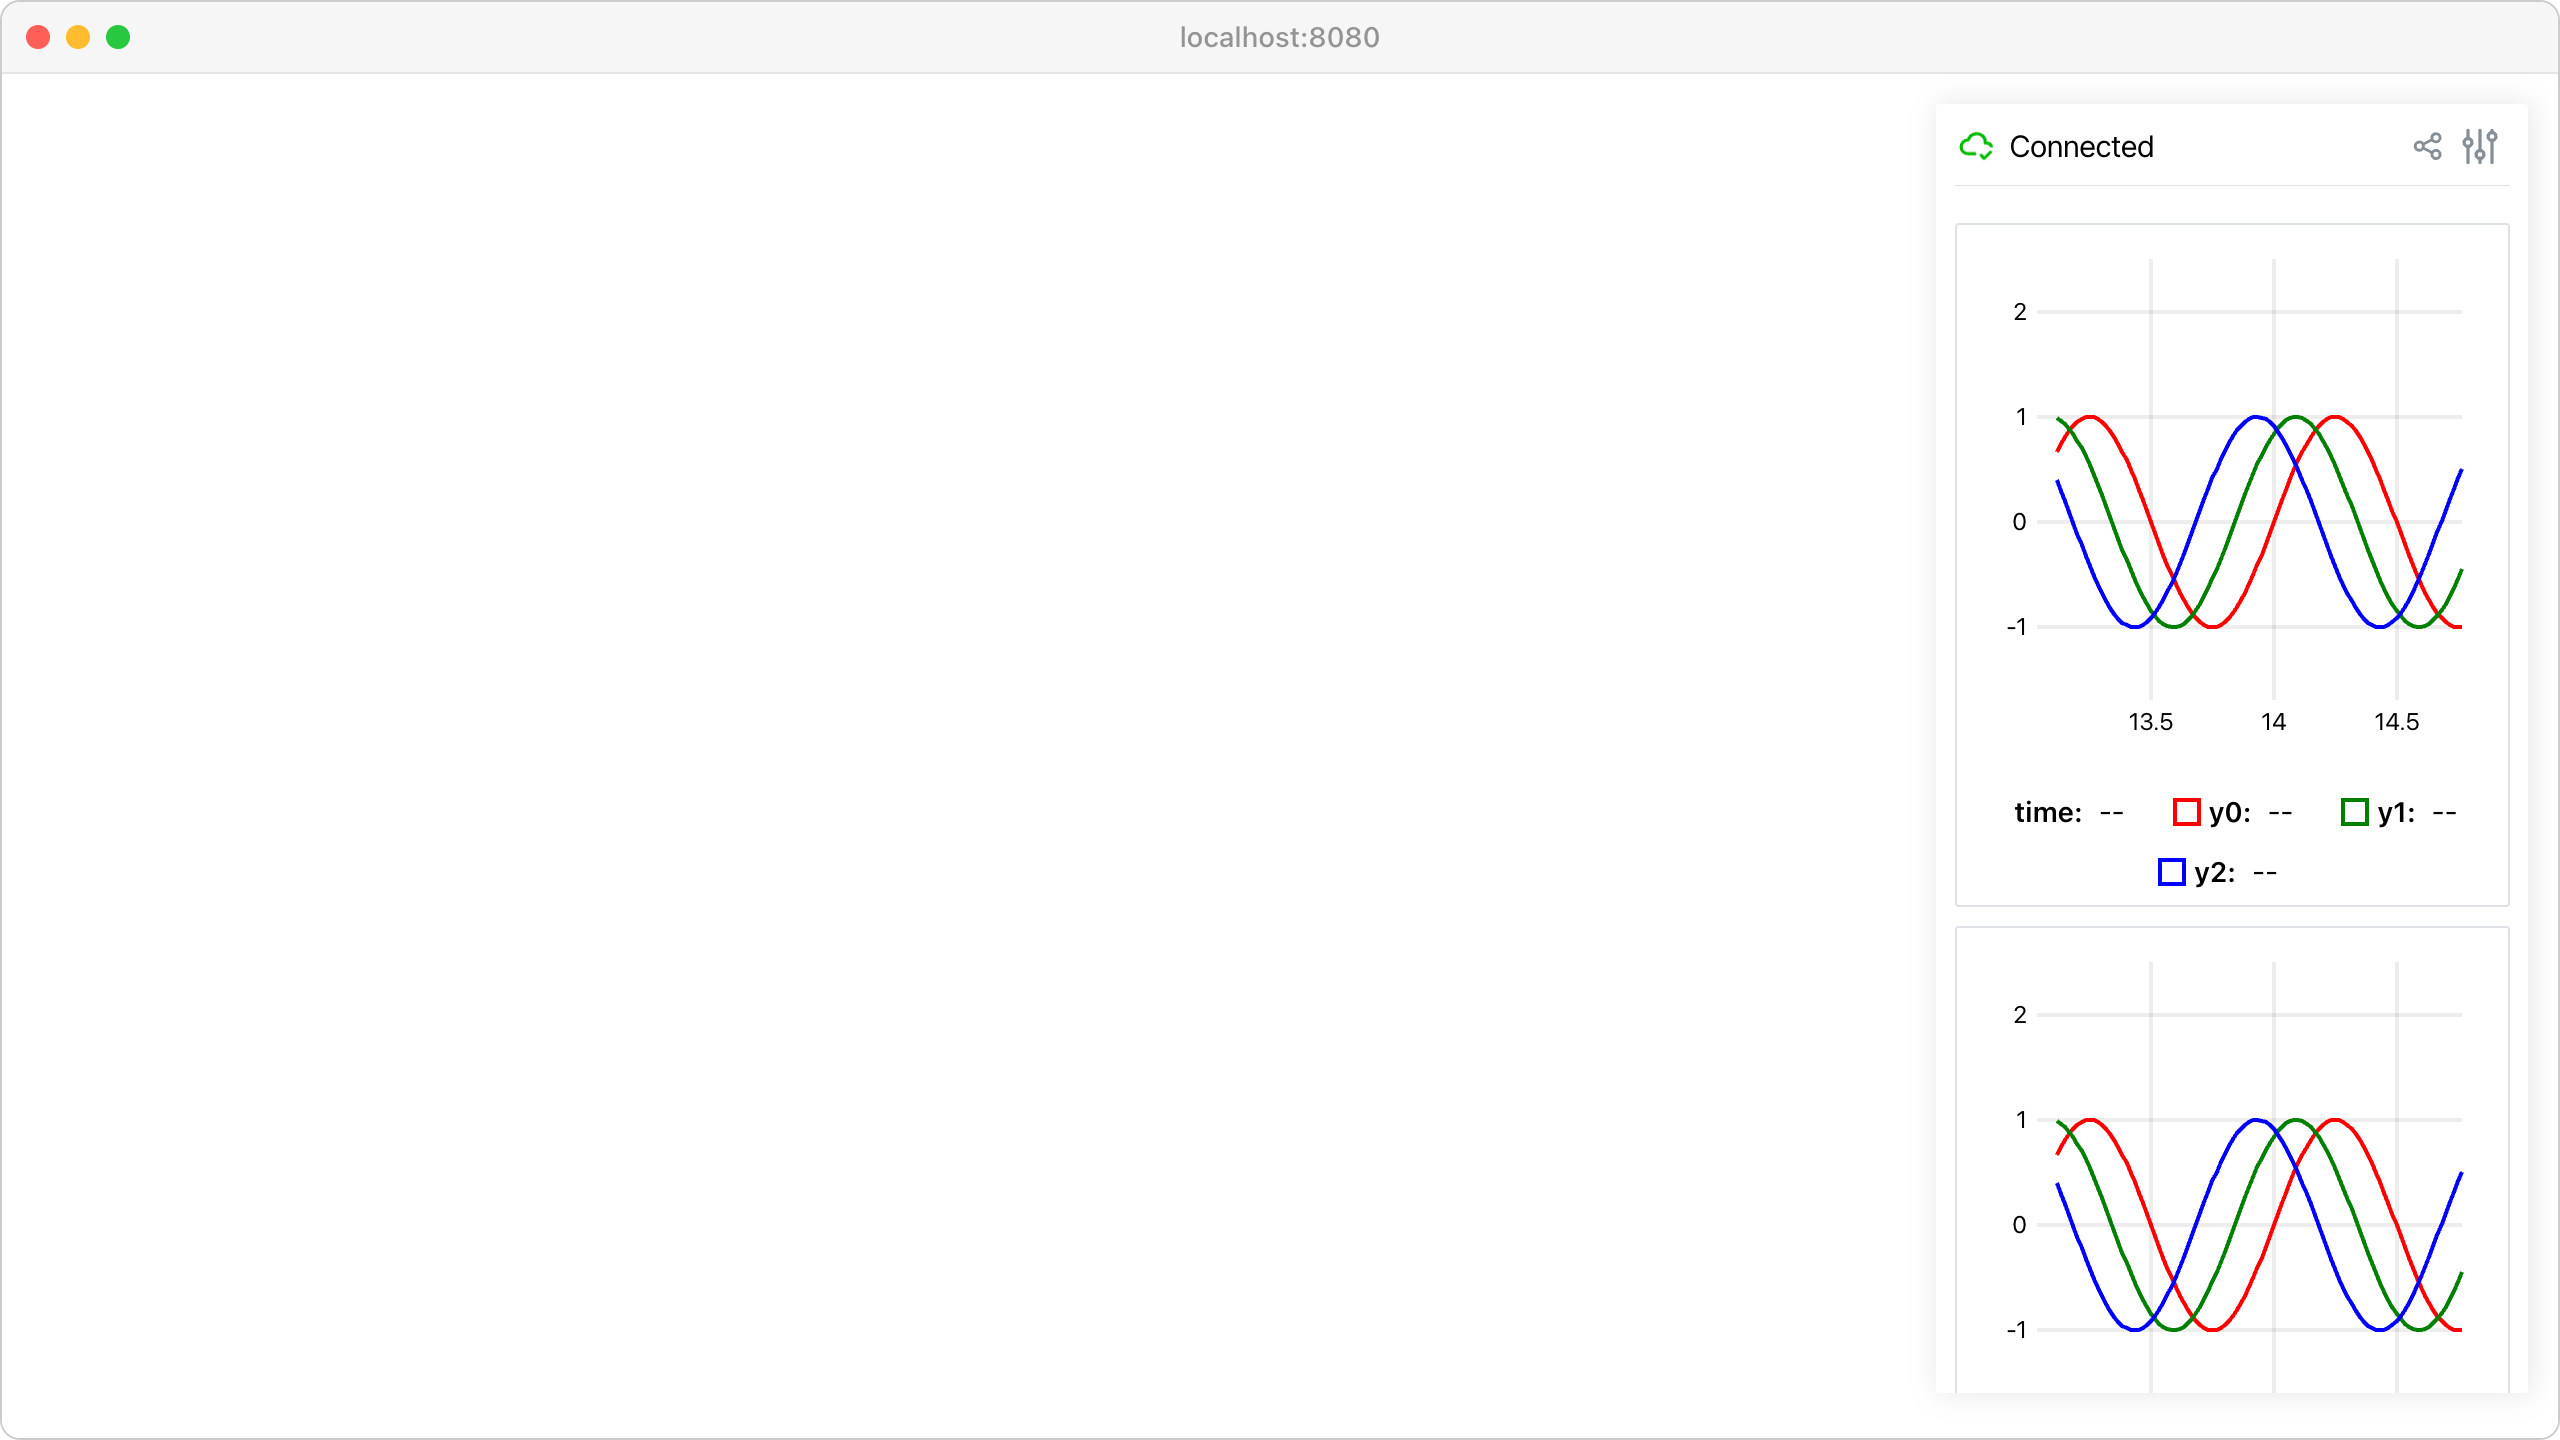
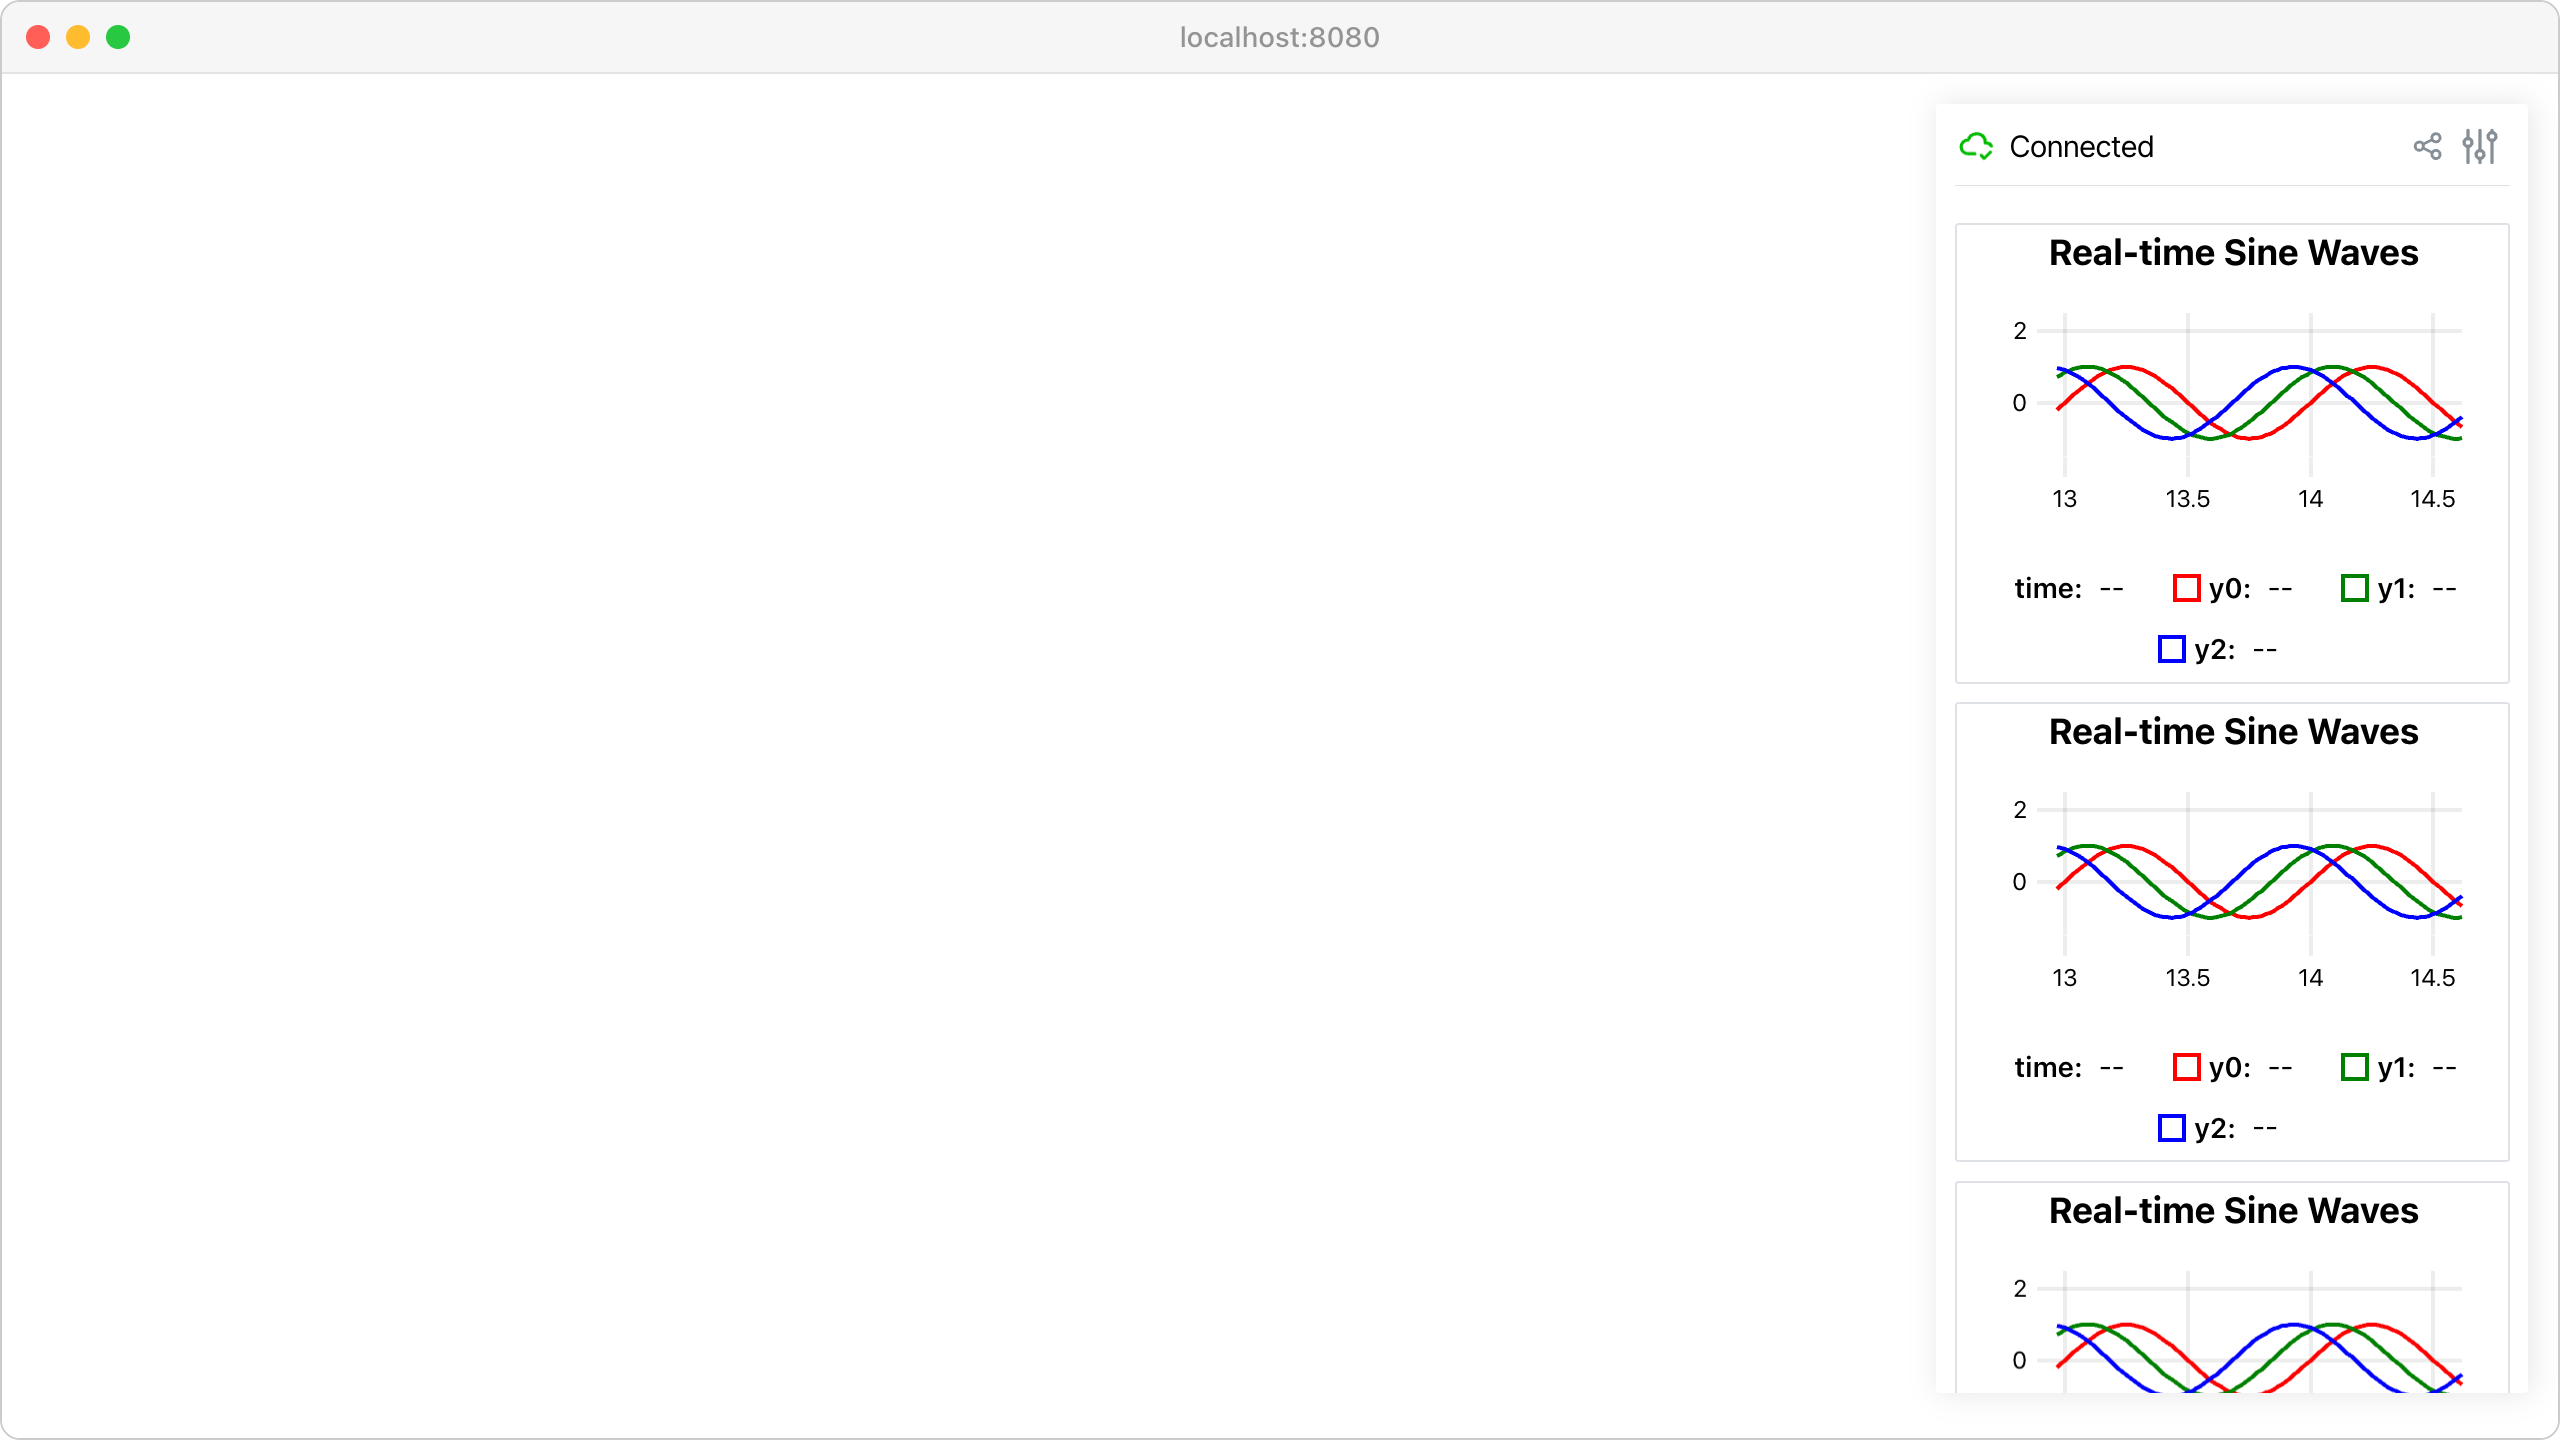
Improving styling for uPlot plots

diff --git a/src/viser/client/src/components/UplotComponent.tsx b/src/viser/client/src/components/UplotComponent.tsx
@@ -1,8 +1,17 @@
 import { useEffect, useMemo, useRef, useState } from "react";
 import UplotReact from "uplot-react";
 import "uplot/dist/uPlot.min.css";
+import "./UplotComponent.css";
 
-import { Modal, Box, Paper, Tooltip, ActionIcon } from "@mantine/core";
+import {
+  Modal,
+  Box,
+  Paper,
+  Tooltip,
+  ActionIcon,
+  useMantineTheme,
+  useMantineColorScheme,
+} from "@mantine/core";
 import { useDisclosure, useElementSize } from "@mantine/hooks";
 import { IconMaximize } from "@tabler/icons-react";
 import { GuiUplotMessage } from "../WebsocketMessages";
@@ -18,6 +27,8 @@ function PlotComponent({
 }) {
   const [isHovered, setIsHovered] = useState(false);
   const { ref: containerSizeRef, width: containerWidth } = useElementSize();
+  const theme = useMantineTheme();
+  const { colorScheme } = useMantineColorScheme();
 
   // Convert inputs to Float64Array once per update.
   const [data, xMin, xMax] = useMemo(() => {
@@ -43,6 +54,53 @@ function PlotComponent({
   // There are some `any` casts because the types here come through multiple
   // transpiler layers, which are imperfect: TS=>Python=>TS.
   const plotOptions = useMemo(() => {
+    // Get theme-aware default colors.
+    const textColor =
+      colorScheme === "dark" ? theme.colors.gray[5] : theme.colors.gray[7];
+    const gridColor =
+      colorScheme === "dark"
+        ? "rgba(255, 255, 255, 0.03)"
+        : theme.colors.gray[2];
+
+    // Process axes to add theme-aware defaults if not specified by user.
+    // If axes are not provided, create default axes with theme colors.
+    let processedAxes = props.axes as any;
+    if (processedAxes === undefined || processedAxes === null) {
+      // Create default axes if none provided.
+      processedAxes = [
+        { stroke: textColor, grid: { stroke: gridColor, show: true } }, // x-axis
+        { stroke: textColor, grid: { stroke: gridColor, show: true } }, // y-axis
+      ];
+    } else {
+      processedAxes = processedAxes.map((axis: any) => {
+        if (axis === undefined || axis === null) return axis;
+
+        // Only set defaults if user hasn't specified values.
+        const result = { ...axis };
+
+        // Set axis line color default.
+        if (result.stroke === undefined) {
+          result.stroke = textColor;
+        }
+
+        // Set grid color default.
+        if (result.grid === undefined) {
+          result.grid = { stroke: gridColor };
+        } else if (result.grid !== null && result.grid.stroke === undefined) {
+          result.grid = { ...result.grid, stroke: gridColor };
+        }
+
+        // Set tick color default.
+        if (result.ticks === undefined) {
+          result.ticks = { stroke: textColor };
+        } else if (result.ticks !== null && result.ticks.stroke === undefined) {
+          result.ticks = { ...result.ticks, stroke: textColor };
+        }
+
+        return result;
+      });
+    }
+
     return {
       width: containerWidth,
       height: (containerWidth / props.aspect) as any,
@@ -52,11 +110,26 @@ function PlotComponent({
       cursor: (props.cursor as any) || undefined,
       bands: props.bands || undefined,
       scales: props.scales || undefined,
-      axes: (props.axes as any) || undefined,
+      axes: processedAxes,
       legend: (props.legend as any) || undefined,
       focus: props.focus || undefined,
+      // Set tighter default padding [top, right, bottom, left].
+      padding: [0, 24, 0, 0] as [number, number, number, number],
     };
-  }, [containerWidth, props]);
+  }, [
+    containerWidth,
+    props.aspect,
+    props.title,
+    props.mode,
+    props.series,
+    props.cursor,
+    props.bands,
+    props.scales,
+    props.axes,
+    props.legend,
+    props.focus,
+    colorScheme,
+  ]);
 
   // Somewhat experimental: manual scale reset logic. When the plot data is
   // updated, uPlot's default behavior will either:
@@ -98,7 +171,7 @@ function PlotComponent({
   return (
     <Paper
       ref={containerSizeRef}
-      className={folderWrapper}
+      className={`${folderWrapper} uplot-container`}
       withBorder
       style={{ position: "relative" }}
       onMouseEnter={onExpand ? () => setIsHovered(true) : undefined}
@@ -106,6 +179,7 @@ function PlotComponent({
     >
       {plotOptions && (
         <UplotReact
+          key={colorScheme} // Force remount when theme changes.
           resetScales={false}
           onCreate={(chart) => {
             setPlotObj(chart);
@@ -128,7 +202,10 @@ function PlotComponent({
               position: "absolute",
               top: 8,
               right: 8,
-              backgroundColor: "rgba(255, 255, 255, 0.9)",
+              backgroundColor:
+                colorScheme === "dark"
+                  ? "rgba(255, 255, 255, 0.1)"
+                  : "rgba(255, 255, 255, 0.9)",
               backdropFilter: "blur(4px)",
             }}
           >

diff --git a/examples/02_gui/08_uplot.py b/examples/02_gui/08_uplot.py
@@ -17,7 +17,6 @@ import time
 
 import numpy as np
 import tyro
-
 import viser
 import viser.uplot
 
@@ -59,6 +58,7 @@ def main(num_plots: int = 5, num_timesteps: int = 100, num_lines: int = 3) -> No
                         for i in range(num_lines)
                     ],
                 ),
+                title="Real-time Sine Waves",
                 scales={
                     "x": viser.uplot.Scale(
                         time=False,
@@ -67,7 +67,7 @@ def main(num_plots: int = 5, num_timesteps: int = 100, num_lines: int = 3) -> No
                     "y": viser.uplot.Scale(range=(-1.5, 2.5)),
                 },
                 legend=viser.uplot.Legend(show=True),
-                aspect=1.0,
+                aspect=2.0,
             )
         )
 

diff --git a/docs/source/examples/gui/uplot.rst b/docs/source/examples/gui/uplot.rst
@@ -30,7 +30,6 @@ Code
    
    import numpy as np
    import tyro
-   
    import viser
    import viser.uplot
    
@@ -64,6 +63,7 @@ Code
                            for i in range(num_lines)
                        ],
                    ),
+                   title="Real-time Sine Waves",
                    scales={
                        "x": viser.uplot.Scale(
                            time=False,
@@ -72,7 +72,7 @@ Code
                        "y": viser.uplot.Scale(range=(-1.5, 2.5)),
                    },
                    legend=viser.uplot.Legend(show=True),
-                   aspect=1.0,
+                   aspect=2.0,
                )
            )
    
